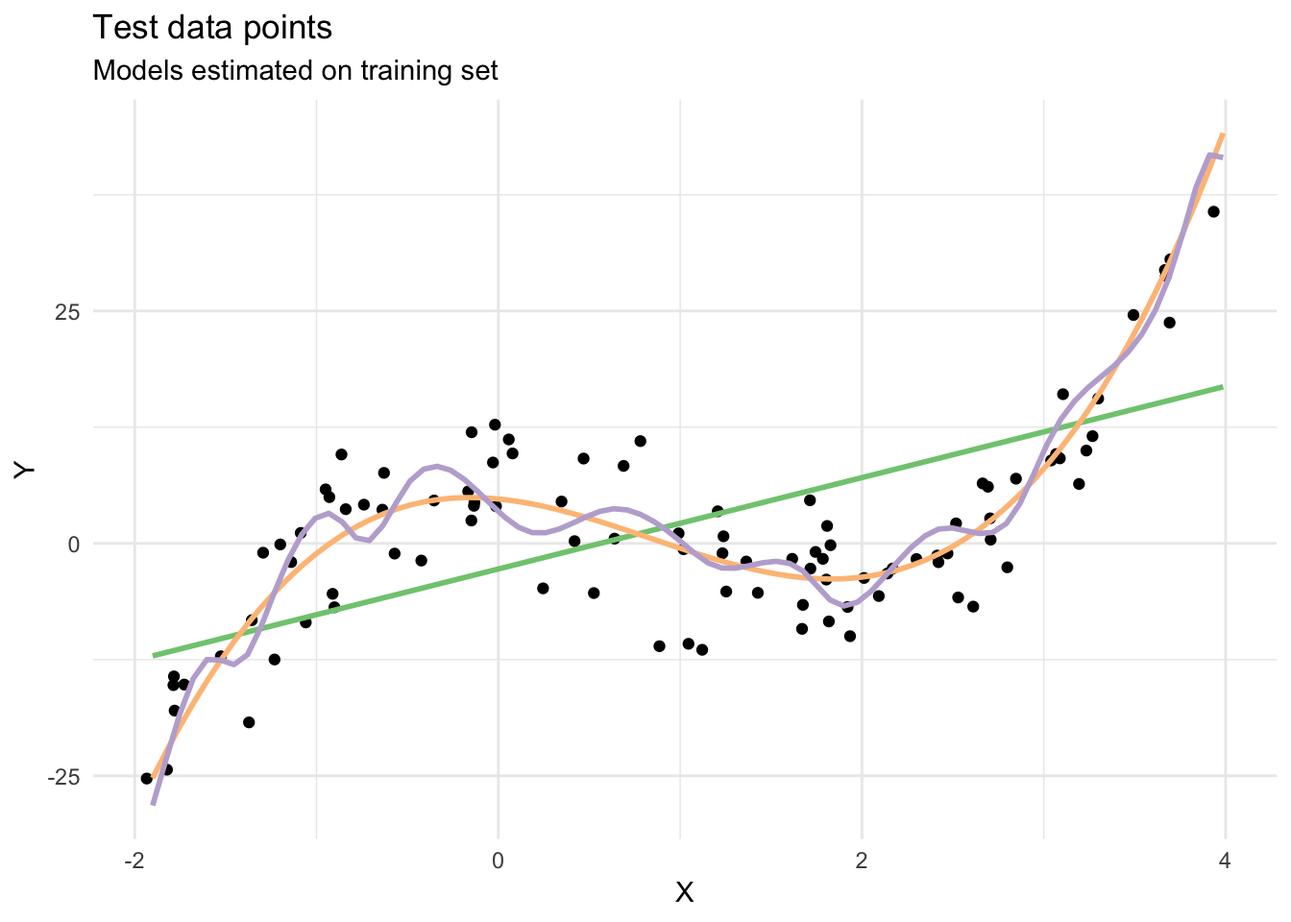
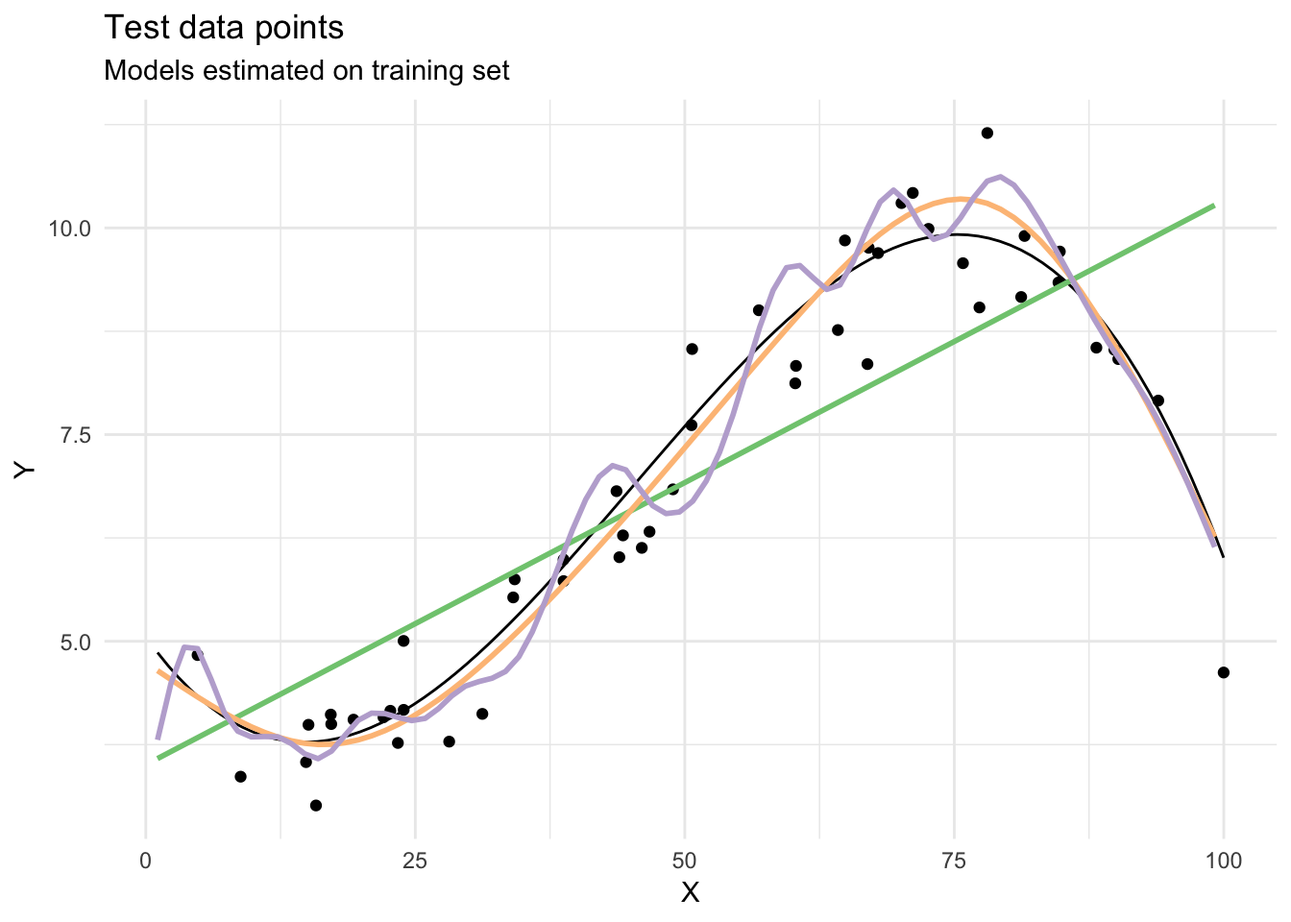
Complete the explanation for bias-variance tradeoff

diff --git a/content/notes/model-accuracy.html b/content/notes/model-accuracy.html
@@ -61,7 +61,8 @@ code > span.in { color: #60a0b0; font-weight: bold; font-style: italic; } /* Inf
 <li><a href="#optimism-of-training-error"><span class="toc-section-number">2.2</span> Optimism of training error</a></li>
 </ul></li>
 <li><a href="#bias-variance-trade-off"><span class="toc-section-number">3</span> Bias-variance trade-off</a><ul>
-<li><a href="#bias-variance-decomposition"><span class="toc-section-number">3.1</span> Bias-variance decomposition</a></li>
+<li><a href="#bias-and-variance-defined"><span class="toc-section-number">3.1</span> Bias and variance defined</a></li>
+<li><a href="#bias-variance-decomposition"><span class="toc-section-number">3.2</span> Bias-variance decomposition</a></li>
 </ul></li>
 <li><a href="#applications-to-classification-models"><span class="toc-section-number">4</span> Applications to classification models</a><ul>
 <li><a href="#loss-functions"><span class="toc-section-number">4.1</span> Loss functions</a><ul>
@@ -148,8 +149,8 @@ L(Y, \hat{f}(X)) = \left\{
 <p>It would be nice if we could use the training error as an estimate for the test/expected error. Alas, we cannot. Most statistical learning methods specifically attempt to minimize the training error (think least squares regression). This produces a relatively low training error, but does not guarantee a correspondingly low test error. In fact, it can have the opposite relationship – as the training error decreases, the test error can actually increase.</p>
 <div class="sourceCode"><pre class="sourceCode r"><code class="sourceCode r"><span class="co"># simulate data from ISL figure 2.9</span>
 sim_mse &lt;-<span class="st"> </span><span class="kw">tibble</span>(
-  <span class="dt">x =</span> <span class="kw">runif</span>(<span class="dt">n =</span> <span class="fl">1e02</span>, <span class="dt">min =</span> <span class="dv">0</span>, <span class="dt">max =</span> <span class="dv">100</span>),
-  <span class="dt">y =</span> <span class="fl">5.055901</span> <span class="op">-</span><span class="st"> </span><span class="fl">0.1848551</span><span class="op">*</span>x <span class="op">+</span><span class="st"> </span><span class="fl">0.00748706</span><span class="op">*</span>x<span class="op">^</span><span class="dv">2</span> <span class="op">-</span><span class="st"> </span><span class="fl">0.00005543478</span><span class="op">*</span>x<span class="op">^</span><span class="dv">3</span> <span class="op">+</span><span class="st"> </span><span class="kw">rnorm</span>(<span class="fl">1e02</span>, <span class="dt">sd =</span> <span class="fl">0.5</span>)
+  <span class="dt">x =</span> <span class="kw">runif</span>(<span class="dt">n =</span> <span class="dv">50</span>, <span class="dt">min =</span> <span class="dv">0</span>, <span class="dt">max =</span> <span class="dv">100</span>),
+  <span class="dt">y =</span> <span class="fl">5.055901</span> <span class="op">-</span><span class="st"> </span><span class="fl">0.1848551</span><span class="op">*</span>x <span class="op">+</span><span class="st"> </span><span class="fl">0.00748706</span><span class="op">*</span>x<span class="op">^</span><span class="dv">2</span> <span class="op">-</span><span class="st"> </span><span class="fl">0.00005543478</span><span class="op">*</span>x<span class="op">^</span><span class="dv">3</span> <span class="op">+</span><span class="st"> </span><span class="kw">rnorm</span>(<span class="dv">50</span>, <span class="dt">sd =</span> <span class="fl">0.6</span>)
 )
 
 <span class="co"># model fit</span>
@@ -169,6 +170,27 @@ sim_mse &lt;-<span class="st"> </span><span class="kw">tibble</span>(
 <span class="st">  </span><span class="kw">theme</span>(<span class="dt">legend.position =</span> <span class="st">&quot;none&quot;</span>)</code></pre></div>
 <p><img src="/notes/model-accuracy_files/figure-html/sim-train-model-1.png" width="672" /></p>
 <p>Here I synthesize an example dataset and fit three separate models to it: a linear regression fit, and two <strong>splines</strong> which permit more flexible relationships between <span class="math inline">\(X\)</span> and <span class="math inline">\(Y\)</span>. Notice that as the flexibility increases, the models are more likely to fit the data. That is, the training MSE will decrease. But this does not guarantee the test MSE also decreases. Consider the trained models applied to an independent test set generated from the same underlying process:</p>
+<div class="sourceCode"><pre class="sourceCode r"><code class="sourceCode r">sim_mse_test &lt;-<span class="st"> </span><span class="kw">tibble</span>(
+  <span class="dt">x =</span> <span class="kw">runif</span>(<span class="dt">n =</span> <span class="dv">50</span>, <span class="dt">min =</span> <span class="dv">0</span>, <span class="dt">max =</span> <span class="dv">100</span>),
+  <span class="dt">y =</span> <span class="fl">5.055901</span> <span class="op">-</span><span class="st"> </span><span class="fl">0.1848551</span> <span class="op">*</span><span class="st"> </span>x <span class="op">+</span><span class="st"> </span><span class="fl">0.00748706</span> <span class="op">*</span><span class="st"> </span>x<span class="op">^</span><span class="dv">2</span> <span class="op">-</span><span class="st"> </span><span class="fl">0.00005543478</span> <span class="op">*</span><span class="st"> </span>x<span class="op">^</span><span class="dv">3</span> <span class="op">+</span><span class="st"> </span><span class="kw">rnorm</span>(<span class="dv">50</span>, <span class="dt">sd =</span> <span class="fl">0.6</span>)
+)
+
+<span class="co"># model fit</span>
+<span class="kw">ggplot</span>(sim_mse, <span class="kw">aes</span>(x, y)) <span class="op">+</span>
+<span class="st">  </span><span class="kw">geom_point</span>(<span class="dt">data =</span> sim_mse_test) <span class="op">+</span>
+<span class="st">  </span><span class="kw">stat_function</span>(<span class="dt">fun =</span> <span class="cf">function</span>(x) <span class="fl">5.055901</span> <span class="op">-</span><span class="st"> </span><span class="fl">0.1848551</span><span class="op">*</span>x <span class="op">+</span><span class="st"> </span><span class="fl">0.00748706</span><span class="op">*</span>x<span class="op">^</span><span class="dv">2</span> <span class="op">-</span><span class="st"> </span><span class="fl">0.00005543478</span><span class="op">*</span>x<span class="op">^</span><span class="dv">3</span>) <span class="op">+</span>
+<span class="st">  </span><span class="kw">geom_smooth</span>(<span class="kw">aes</span>(<span class="dt">color =</span> <span class="st">&quot;lm&quot;</span>), <span class="dt">method =</span> lm, <span class="dt">se =</span> <span class="ot">FALSE</span>) <span class="op">+</span>
+<span class="st">  </span><span class="kw">geom_smooth</span>(<span class="kw">aes</span>(<span class="dt">color =</span> <span class="st">&quot;spline-low&quot;</span>), <span class="dt">method =</span> lm,
+              <span class="dt">formula =</span> y <span class="op">~</span><span class="st"> </span>splines<span class="op">::</span><span class="kw">ns</span>(x, <span class="dv">5</span>), <span class="dt">se =</span> <span class="ot">FALSE</span>) <span class="op">+</span>
+<span class="st">  </span><span class="kw">geom_smooth</span>(<span class="kw">aes</span>(<span class="dt">color =</span> <span class="st">&quot;spline-high&quot;</span>), <span class="dt">method =</span> lm,
+              <span class="dt">formula =</span> y <span class="op">~</span><span class="st"> </span>splines<span class="op">::</span><span class="kw">ns</span>(x, <span class="dv">20</span>), <span class="dt">se =</span> <span class="ot">FALSE</span>) <span class="op">+</span>
+<span class="st">  </span><span class="kw">scale_color_brewer</span>(<span class="dt">type =</span> <span class="st">&quot;qual&quot;</span>) <span class="op">+</span>
+<span class="st">  </span><span class="kw">labs</span>(<span class="dt">title =</span> <span class="st">&quot;Test data points&quot;</span>,
+       <span class="dt">subtitle =</span> <span class="st">&quot;Models estimated on training set&quot;</span>,
+       <span class="dt">x =</span> <span class="kw">expression</span>(X),
+       <span class="dt">y =</span> <span class="kw">expression</span>(Y)) <span class="op">+</span>
+<span class="st">  </span><span class="kw">theme</span>(<span class="dt">legend.position =</span> <span class="st">&quot;none&quot;</span>)</code></pre></div>
+<p><img src="/notes/model-accuracy_files/figure-html/sim-test-model-1.png" width="672" /></p>
 <p>It is not entirely clear, but these models no longer perform as well as compared to the training data. This divergence increases as the flexibility of the model increases.</p>
 <div class="sourceCode"><pre class="sourceCode r"><code class="sourceCode r">sim_mse_test &lt;-<span class="st"> </span><span class="kw">tibble</span>(
   <span class="dt">x =</span> <span class="kw">runif</span>(<span class="dt">n =</span> <span class="fl">1e04</span>, <span class="dt">min =</span> <span class="dv">0</span>, <span class="dt">max =</span> <span class="dv">100</span>),
@@ -202,13 +224,16 @@ train_test_mse <span class="op">%&gt;%</span>
 </div>
 <div id="bias-variance-trade-off" class="section level1">
 <h1><span class="header-section-number">3</span> Bias-variance trade-off</h1>
-<div id="bias-variance-decomposition" class="section level2">
-<h2><span class="header-section-number">3.1</span> Bias-variance decomposition</h2>
+<div id="bias-and-variance-defined" class="section level2">
+<h2><span class="header-section-number">3.1</span> Bias and variance defined</h2>
 <p><strong>Bias</strong> defines the error that is introduced by approximating a real-life problem using a simplified model. In the context of statistical learning, this is the amount by which the average of our estimate differs from the true mean:</p>
 <p><span class="math display">\[\text{Bias} = \E[\hat{f}(x_o)] - f(x_0)\]</span></p>
 <p>Generally speaking, we want to have little-to-no bias in our estimates; otherwise we are consistently estimating an incorrect value for <span class="math inline">\(\hat{f}(x_0)\)</span>.</p>
 <p><strong>Variance</strong> refers to the amount by which <span class="math inline">\(\hat{f}\)</span> would change if we estimated it using a different training data set. Formally, it is the expected squared deviation of <span class="math inline">\(\hat{f}(x_0)\)</span> around its mean:</p>
 <p><span class="math display">\[\text{Variance} = \E[\hat{f}(x_0) - \E[\hat{f}(x_0)]]^2\]</span></p>
+</div>
+<div id="bias-variance-decomposition" class="section level2">
+<h2><span class="header-section-number">3.2</span> Bias-variance decomposition</h2>
 <p>If we assume that <span class="math inline">\(Y = f(X) + \epsilon\)</span> where <span class="math inline">\(\E[\epsilon] = 0\)</span> and <span class="math inline">\(\Var(\epsilon) = \sigma^2_\epsilon\)</span>, we can derive an expression for the expected prediction error of a regression fit <span class="math inline">\(\hat{f}(X)\)</span> at an input point <span class="math inline">\(X = x_0\)</span> using squared-error loss:</p>
 <p><span class="math display">\[
 \begin{align}
@@ -218,7 +243,96 @@ train_test_mse <span class="op">%&gt;%</span>
 &amp;= \text{Irreducible Error} + \text{Bias}^2 + \text{Variance}
 \end{align}
 \]</span></p>
-<p>In order to minimize the expected test error rate, we need a statistical learning method that has both <strong>low bias</strong> and <strong>low variance</strong>. The difficulty is that few, if any, methods satisfy both requirements. As flexibility increases, the bias of a model will decrease but the variance will increase. Again, this is related to the problem of overfitting our training data set.</p>
+<p>In order to minimize the expected test error rate, we need a statistical learning method that has both <strong>low bias</strong> and <strong>low variance</strong>. The difficulty is that few, if any, methods satisfy both requirements. As flexibility increases, the bias of a model will decrease but the variance will increase. Consider our sample data from earlier:</p>
+<div class="sourceCode"><pre class="sourceCode r"><code class="sourceCode r"><span class="kw">ggplot</span>(sim_mse, <span class="kw">aes</span>(x, y)) <span class="op">+</span>
+<span class="st">  </span><span class="kw">geom_point</span>() <span class="op">+</span>
+<span class="st">  </span><span class="kw">labs</span>(<span class="dt">title =</span> <span class="st">&quot;Training data points&quot;</span>,
+       <span class="dt">x =</span> <span class="kw">expression</span>(X),
+       <span class="dt">y =</span> <span class="kw">expression</span>(Y))</code></pre></div>
+<p><img src="/notes/model-accuracy_files/figure-html/sim-train-data-1.png" width="672" /></p>
+<p>A low bias, high variance modeling strategy would be to draw a curve that passes through every data point:</p>
+<div class="sourceCode"><pre class="sourceCode r"><code class="sourceCode r"><span class="co"># estimate KNN model, k = 1</span>
+sim_knn1 &lt;-<span class="st"> </span>FNN<span class="op">::</span><span class="kw">knn.reg</span>(sim_mse,
+                         <span class="dt">y =</span> sim_mse<span class="op">$</span>y,
+                         <span class="dt">test =</span> sim_mse,
+                         <span class="dt">k =</span> <span class="dv">1</span>)
+
+sim_mse <span class="op">%&gt;%</span>
+<span class="st">  </span><span class="kw">mutate</span>(<span class="dt">pred =</span> sim_knn1<span class="op">$</span>pred) <span class="op">%&gt;%</span>
+<span class="st">  </span><span class="kw">ggplot</span>(<span class="kw">aes</span>(x, y)) <span class="op">+</span>
+<span class="st">  </span><span class="kw">geom_point</span>() <span class="op">+</span>
+<span class="st">  </span><span class="kw">geom_step</span>(<span class="kw">aes</span>(<span class="dt">y =</span> pred)) <span class="op">+</span>
+<span class="st">  </span><span class="kw">labs</span>(<span class="dt">title =</span> <span class="st">&quot;Training data points&quot;</span>,
+       <span class="dt">x =</span> <span class="kw">expression</span>(X),
+       <span class="dt">y =</span> <span class="kw">expression</span>(Y))</code></pre></div>
+<p><img src="/notes/model-accuracy_files/figure-html/sim-data-nn-1.png" width="672" /></p>
+<p>It has low bias because the training MSE is 0, but it has high variance because if we generate a new training set the model will be entirely different. Again, this is related to the problem of overfitting our training data set.</p>
+<p>Compare this to a method with high bias but low variance: a horizontal line at the mean:</p>
+<div class="sourceCode"><pre class="sourceCode r"><code class="sourceCode r"><span class="kw">ggplot</span>(sim_mse, <span class="kw">aes</span>(x, y)) <span class="op">+</span>
+<span class="st">  </span><span class="kw">geom_point</span>() <span class="op">+</span>
+<span class="st">  </span><span class="kw">geom_hline</span>(<span class="dt">yintercept =</span> <span class="kw">mean</span>(sim_mse<span class="op">$</span>y)) <span class="op">+</span>
+<span class="st">  </span><span class="kw">labs</span>(<span class="dt">title =</span> <span class="st">&quot;Training data points&quot;</span>,
+       <span class="dt">x =</span> <span class="kw">expression</span>(X),
+       <span class="dt">y =</span> <span class="kw">expression</span>(Y))</code></pre></div>
+<p><img src="/notes/model-accuracy_files/figure-html/sim-data-mean-1.png" width="672" /></p>
+<p>The variance of our model <span class="math inline">\(\hat{f}\)</span> should be low since the mean value for any given independent sample from the population should possess the same basic characteristics. But this model has a lot more bias (aka a higher MSE) because its accuracy is not good.</p>
+<p>How do we actually account for this trade-off? That is to say, which should be most concerned with if we cannot reduce both components? Bias or variance? That entirely depends on our goals.</p>
+<div class="sourceCode"><pre class="sourceCode r"><code class="sourceCode r"><span class="co"># set number of throws</span>
+numDarts &lt;-<span class="st"> </span><span class="dv">10</span>
+
+<span class="co"># throw numDarts number of darts and get the coordinates where they hit</span>
+throwDarts &lt;-<span class="st"> </span><span class="cf">function</span>(numDarts, <span class="dt">reliable =</span> <span class="ot">TRUE</span>, <span class="dt">valid =</span> <span class="ot">TRUE</span>) {
+  <span class="cf">if</span> (reliable <span class="op">&amp;</span><span class="st"> </span>valid) {
+    xvals &lt;-<span class="st"> </span><span class="kw">rnorm</span>(numDarts, <span class="dt">mean =</span> <span class="dv">0</span>, <span class="dt">sd =</span> .<span class="dv">05</span>)
+    yvals &lt;-<span class="st"> </span><span class="kw">rnorm</span>(numDarts, <span class="dt">mean =</span> <span class="dv">0</span>, <span class="dt">sd =</span> .<span class="dv">05</span>)
+  } <span class="cf">else</span> <span class="cf">if</span> (reliable <span class="op">==</span><span class="st"> </span><span class="ot">TRUE</span> <span class="op">&amp;</span><span class="st"> </span>valid <span class="op">==</span><span class="st"> </span><span class="ot">FALSE</span>) {
+    xvals &lt;-<span class="st"> </span><span class="kw">rnorm</span>(numDarts, <span class="dt">mean =</span> .<span class="dv">5</span>, <span class="dt">sd =</span> .<span class="dv">05</span>)
+    yvals &lt;-<span class="st"> </span><span class="kw">rnorm</span>(numDarts, <span class="dt">mean =</span> .<span class="dv">4</span>, <span class="dt">sd =</span> .<span class="dv">05</span>)
+  } <span class="cf">else</span> <span class="cf">if</span> (reliable <span class="op">==</span><span class="st"> </span><span class="ot">FALSE</span> <span class="op">&amp;</span><span class="st"> </span>valid <span class="op">==</span><span class="st"> </span><span class="ot">TRUE</span>) {
+    xvals &lt;-<span class="st"> </span><span class="kw">rnorm</span>(numDarts, <span class="dt">mean =</span> <span class="dv">0</span>, <span class="dt">sd =</span> .<span class="dv">3</span>)
+    yvals &lt;-<span class="st"> </span><span class="kw">rnorm</span>(numDarts, <span class="dt">mean =</span> <span class="dv">0</span>, <span class="dt">sd =</span> .<span class="dv">3</span>)
+  } <span class="cf">else</span> <span class="cf">if</span> (reliable <span class="op">==</span><span class="st"> </span><span class="ot">FALSE</span> <span class="op">&amp;</span><span class="st"> </span>valid <span class="op">==</span><span class="st"> </span><span class="ot">FALSE</span>) {
+    xvals &lt;-<span class="st"> </span><span class="kw">rnorm</span>(numDarts, <span class="dt">mean =</span> .<span class="dv">5</span>, <span class="dt">sd =</span> .<span class="dv">3</span>)
+    yvals &lt;-<span class="st"> </span><span class="kw">rnorm</span>(numDarts, <span class="dt">mean =</span> <span class="op">-</span>.<span class="dv">4</span>, <span class="dt">sd =</span> .<span class="dv">3</span>)
+  }
+  
+  <span class="kw">tibble</span>(
+    <span class="dt">x =</span> xvals,
+    <span class="dt">y =</span> yvals,
+    <span class="dt">reliable =</span> reliable,
+    <span class="dt">valid =</span> valid
+  )
+}
+
+<span class="co"># get data for each situation</span>
+throws &lt;-<span class="st"> </span><span class="kw">bind_rows</span>(
+  <span class="kw">throwDarts</span>(numDarts, <span class="dt">reliable =</span> <span class="ot">TRUE</span>, <span class="dt">valid =</span> <span class="ot">TRUE</span>),
+  <span class="kw">throwDarts</span>(numDarts, <span class="dt">reliable =</span> <span class="ot">TRUE</span>, <span class="dt">valid =</span> <span class="ot">FALSE</span>),
+  <span class="kw">throwDarts</span>(numDarts, <span class="dt">reliable =</span> <span class="ot">FALSE</span>, <span class="dt">valid =</span> <span class="ot">TRUE</span>),
+  <span class="kw">throwDarts</span>(numDarts, <span class="dt">reliable =</span> <span class="ot">FALSE</span>, <span class="dt">valid =</span> <span class="ot">FALSE</span>)
+) <span class="op">%&gt;%</span>
+<span class="st">  </span><span class="kw">mutate</span>(
+    <span class="dt">reliable =</span> <span class="kw">ifelse</span>(reliable, <span class="st">&quot;Low Variance&quot;</span>, <span class="st">&quot;High Variance&quot;</span>),
+    <span class="dt">valid =</span> <span class="kw">ifelse</span>(valid, <span class="st">&quot;Low Bias&quot;</span>, <span class="st">&quot;High Bias&quot;</span>)
+  )
+
+<span class="co"># plot the dart board, facet by each type</span>
+<span class="kw">ggplot</span>(<span class="dt">data =</span> throws, <span class="kw">aes</span>(x, y)) <span class="op">+</span>
+<span class="st">  </span><span class="kw">facet_grid</span>(reliable <span class="op">~</span><span class="st"> </span>valid) <span class="op">+</span>
+<span class="st">  </span>ggforce<span class="op">::</span><span class="kw">geom_circle</span>(<span class="kw">aes</span>(<span class="dt">x =</span> <span class="ot">NULL</span>, <span class="dt">y =</span> <span class="ot">NULL</span>, <span class="dt">x0 =</span> <span class="dv">0</span>, <span class="dt">y0 =</span> <span class="dv">0</span>, <span class="dt">r =</span> <span class="dv">1</span>)) <span class="op">+</span>
+<span class="st">  </span><span class="kw">geom_point</span>(<span class="dt">alpha =</span> <span class="fl">0.5</span>) <span class="op">+</span>
+<span class="st">  </span><span class="kw">xlim</span>(<span class="op">-</span><span class="dv">1</span>, <span class="dv">1</span>) <span class="op">+</span>
+<span class="st">  </span><span class="kw">ylim</span>(<span class="op">-</span><span class="dv">1</span>, <span class="dv">1</span>) <span class="op">+</span>
+<span class="st">  </span><span class="kw">coord_fixed</span>() <span class="op">+</span>
+<span class="st">  </span><span class="kw">labs</span>(<span class="dt">title =</span> <span class="ot">NULL</span>,
+       <span class="dt">x =</span> <span class="ot">NULL</span>,
+       <span class="dt">y =</span> <span class="ot">NULL</span>) <span class="op">+</span>
+<span class="st">  </span><span class="kw">annotate</span>(<span class="st">&quot;point&quot;</span>, <span class="dt">x =</span> <span class="dv">0</span>, <span class="dt">y =</span> <span class="dv">0</span>, <span class="dt">size =</span> <span class="dv">3</span>)</code></pre></div>
+<pre><code>## Warning: Removed 1 rows containing missing values (geom_point).</code></pre>
+<p><img src="/notes/model-accuracy_files/figure-html/darts-1.png" width="672" /></p>
+<p>Imagine that the center of the target is a model that perfectly predicts the correct values. As we move away from the bulls-eye, our predictions get worse and worse. Imagine we can repeat our entire model building process to get a number of separate hits on the target. Each hit represents an individual realization of our model, given the chance variability in the training data we gather. Sometimes we will get a good distribution of training data so we predict very well and we are close to the bulls-eye, while sometimes our training data might be full of outliers or non-standard values resulting in poorer predictions. These different realizations result in a scatter of hits on the target.<a href="#fn1" class="footnoteRef" id="fnref1"><sup>1</sup></a></p>
+<p>Traditionally in statistics we are concerned with reducing the bias of our estimates. Consider one of the desirable properties of the ordinary least squares estimator: it is the <a href="https://en.wikipedia.org/wiki/Gauss%E2%80%93Markov_theorem">best linear unbiased estimator (BLUE)</a>. However linear regression models could be estimated with alternative estimators, such as ridge regression (see chapter 6 in [ISL]). These methods are not unbiased, but have lower variance. What is the value to such an estimator? One desirable quality is simplicity. As we will learn, ridge regression artificially biases the parameters in the regression model towards zero. This enables us to do things we could otherwise not do, such as estimate a regression model where the number of predictors is greater than the number of observations<span class="math inline">\(p &gt; n\)</span>.</p>
+<p>What if our ultimate goal is prediction? Then our primary concern is reducing the test error. Increasing bias slightly to more dramatically decrease variance could lead to a lower test error rate. In that situation, it could make sense to intentionally increase our bias.</p>
 </div>
 </div>
 <div id="applications-to-classification-models" class="section level1">
@@ -260,7 +374,7 @@ train_test_mse <span class="op">%&gt;%</span>
 </div>
 <div id="estimating-the-expected-test-error" class="section level1">
 <h1><span class="header-section-number">5</span> Estimating the expected test error</h1>
-<p>How can we estimate the expected test error rate when all we are given is a single data set? If our data set is sufficiently large, we randomly divide it into three parts:<a href="#fn1" class="footnoteRef" id="fnref1"><sup>1</sup></a></p>
+<p>How can we estimate the expected test error rate when all we are given is a single data set? If our data set is sufficiently large, we randomly divide it into three parts:<a href="#fn2" class="footnoteRef" id="fnref2"><sup>2</sup></a></p>
 <ol style="list-style-type: decimal">
 <li>Training set - used to fit the models</li>
 <li>Validation set - used to estimate prediction error for model selection</li>
@@ -294,7 +408,7 @@ train_test_mse <span class="op">%&gt;%</span>
 ##  collate  en_US.UTF-8                 
 ##  ctype    en_US.UTF-8                 
 ##  tz       America/Chicago             
-##  date     2019-01-08                  
+##  date     2019-01-09                  
 ## 
 ## ─ Packages ──────────────────────────────────────────────────────────────
 ##  package     * version date       lib source                           
@@ -382,6 +496,7 @@ train_test_mse <span class="op">%&gt;%</span>
 <div class="footnotes">
 <hr />
 <ol>
-<li id="fn1"><p>Assuming we have a standard cross-sectional data set.<a href="#fnref1">↩</a></p></li>
+<li id="fn1"><p>Explanation drawn from <a href="http://scott.fortmann-roe.com/docs/BiasVariance.html">Understanding the Bias-Variance Tradeoff</a>.<a href="#fnref1">↩</a></p></li>
+<li id="fn2"><p>Assuming we have a standard cross-sectional data set.<a href="#fnref2">↩</a></p></li>
 </ol>
 </div>
